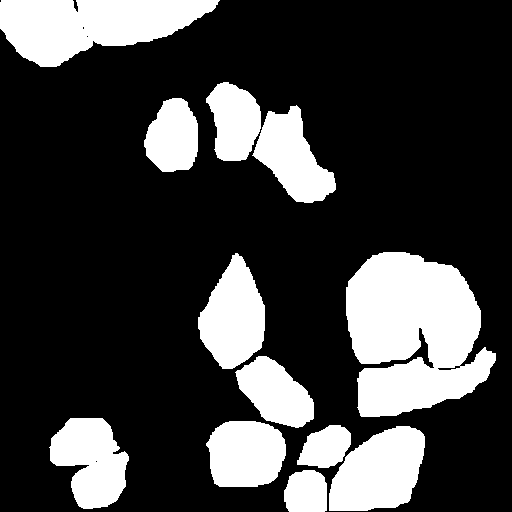
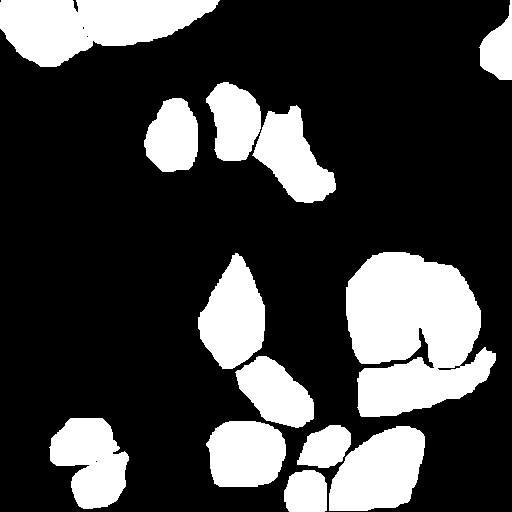
Update training data after QC yolo_tile_33

Changed region(s): [[0.9375, 0.0, 1.0, 0.1562]]

diff --git a/TRAINING_NOTES.md b/TRAINING_NOTES.md
@@ -4,10 +4,10 @@
 
 Source project: `/Volumes/T9/CGH_PA_annotation_1/project.qpproj`
 Source image: `target.tiff`
-Training tiles: 32 final GT tile annotations (`P2 tile 01`-`P2 tile 20` and `yolo_tile_21`-`yolo_tile_32`)
+Training tiles: 33 final GT tile annotations (`P2 tile 01`-`P2 tile 20` and `yolo_tile_21`-`yolo_tile_33`)
 Export path on T9: `/Volumes/T9/CGH_PA_annotation_1/training_data/cellseg1_cgh_p2`
 
-Current export has 32 tiles and 701 trainable cell-boundary instances:
+Current export has 33 tiles and 721 trainable cell-boundary instances:
 
 | Tile | Trainable | Clear | Compact | Edge/invalid ignore | Uncertain ignore | In-tile nuclei | Stroma regions |
 |---|---:|---:|---:|---:|---:|---:|---:|
@@ -42,8 +42,9 @@ Current export has 32 tiles and 701 trainable cell-boundary instances:
 | yolo_tile_29 | 15 | 14 | 1 | 3 | 11 | 17 | 4 |
 | yolo_tile_30 | 16 | 16 | 0 | 0 | 10 | 17 | 4 |
 | yolo_tile_31 | 21 | 21 | 0 | 0 | 5 | 21 | 1 |
-| yolo_tile_32 | 23 | 23 | 0 | 0 | 15 | 23 | 2 |
-| Total | 701 | 580 | 121 | 74 | 367 | 789 | - |
+| yolo_tile_32 | 23 | 23 | 0 | 0 | 16 | 24 | 3 |
+| yolo_tile_33 | 20 | 20 | 0 | 0 | 20 | 21 | 3 |
+| Total | 721 | 600 | 121 | 74 | 391 | 811 | - |
 
 Notes:
 - Positive CellSeg1 masks use only `GT Clear cell boundary` and `GT Compact cell boundary` regions with exactly one in-tile nucleus centroid.
@@ -75,7 +76,7 @@ Metadata:
 
 ## Training Direction
 
-Use the 32-tile dataset as the current P2 ground-truth snapshot. It is enough for pipeline iteration and early model comparison, but it is still not enough for a robust final histology model.
+Use the 33-tile dataset as the current P2 ground-truth snapshot. It is enough for pipeline iteration and early model comparison, but it is still not enough for a robust final histology model.
 
 Target annotation order for the eventual model:
 1. Detect nuclei first.
@@ -111,7 +112,7 @@ Dashboard metrics:
 
 ## Recommended Dataset Growth
 
-Current snapshot: 32 annotated training tiles.
+Current snapshot: 33 annotated training tiles.
 For a model we can trust across slides: plan for 50+ tiles across variable tissue density, staining intensity, compact cytoplasm, stroma-rich areas, and edge cases.
 
 Daily workflow:

diff --git a/ANNOTATION_QC_PUBLISH_WORKFLOW.md b/ANNOTATION_QC_PUBLISH_WORKFLOW.md
@@ -19,7 +19,7 @@ When QuPath is open, pan to the tissue region you want to annotate and run:
 /Users/nttssv/Desktop/SUTD/Courses/CGH PA/CGH Digital Image/Cellpose_testing/qupath_work/create_next_512_training_tile_from_viewer.groovy
 ```
 
-The script creates the next root-level `GT Training tile` using the current hierarchy. For the current snapshot, the next tile after `yolo_tile_32` should be `yolo_tile_33` with object prefix `yolo_T33`.
+The script creates the next root-level `GT Training tile` using the current hierarchy. For the current snapshot, the next tile after `yolo_tile_33` should be `yolo_tile_34` with object prefix `yolo_T34`.
 
 Placement:
 
@@ -30,7 +30,7 @@ Placement:
 Expected created hierarchy:
 
 ```text
-yolo_tile_33
+yolo_tile_34
 ├── nuclei_clean
 └── cell_boundary_clean
 ```
@@ -67,8 +67,8 @@ Please proceed carefully and preserve all existing annotations from previous til
 Examples:
 
 ```text
-Tile parent name: yolo_tile_33
-Object prefix: yolo_T33
+Tile parent name: yolo_tile_34
+Object prefix: yolo_T34
 ```
 
 ```text
@@ -228,7 +228,7 @@ cd "/Volumes/T9/CGH_PA_annotation_1/training_data/cellseg1_cgh_p2"
 python3 validate_training_export.py --expected-tiles [EXPECTED_TILE_COUNT]
 ```
 
-Current snapshot: `32` tiles. If `[TILE_NAME]` is a new final training tile, increment the expected count after export.
+Current snapshot: `33` tiles. If `[TILE_NAME]` is a new final training tile, increment the expected count after export.
 
 Clean or ignore before commit:
 

diff --git a/REPO_ANALYSIS.md b/REPO_ANALYSIS.md
@@ -8,7 +8,7 @@ Commit analyzed: `1c027c2 add cpu support`.
 
 ## Fit for this project
 
-CellSeg1 is a reasonable pilot choice for the P2 QuPath ground truth because it fine-tunes SAM with LoRA from a small annotated image set. Our current P2 export has 32 training tiles and 701 valid cell-boundary instances, each checked to contain one nucleus inside the training tile.
+CellSeg1 is a reasonable pilot choice for the P2 QuPath ground truth because it fine-tunes SAM with LoRA from a small annotated image set. Our current P2 export has 33 training tiles and 721 valid cell-boundary instances, each checked to contain one nucleus inside the training tile.
 
 This is enough for pipeline iteration and early model comparison, but it is still not enough for a robust final histology model. For a dependable model, add more training tiles covering staining variation, dense cells, stroma-heavy zones, tile edges, and ambiguous/uncertain cases.
 
@@ -23,7 +23,7 @@ Our exported dataset matches this format:
 
 - Images: `train/images/*.png`
 - Masks: `train/masks/*.png`
-- Tiles: 32 exported training tiles
+- Tiles: 33 exported training tiles
 - Labels: contiguous `1..N` per tile
 - Sizes: mostly `512 x 512`; `p2_tile_01` is `513 x 512`, `p2_tile_07` is `512 x 518`, and `yolo_tile_22` is `513 x 512`.
 

diff --git a/DATASET_QC.md b/DATASET_QC.md
@@ -34,5 +34,6 @@
 | yolo_tile_30 | 512x512 | 512x512 | 16 | 16 | True |
 | yolo_tile_31 | 512x512 | 512x512 | 21 | 21 | True |
 | yolo_tile_32 | 512x512 | 512x512 | 23 | 23 | True |
+| yolo_tile_33 | 512x512 | 512x512 | 20 | 20 | True |
 
 QC pass criteria: image/mask sizes match, labels are contiguous from 1..N, and instance counts match the export manifest.
